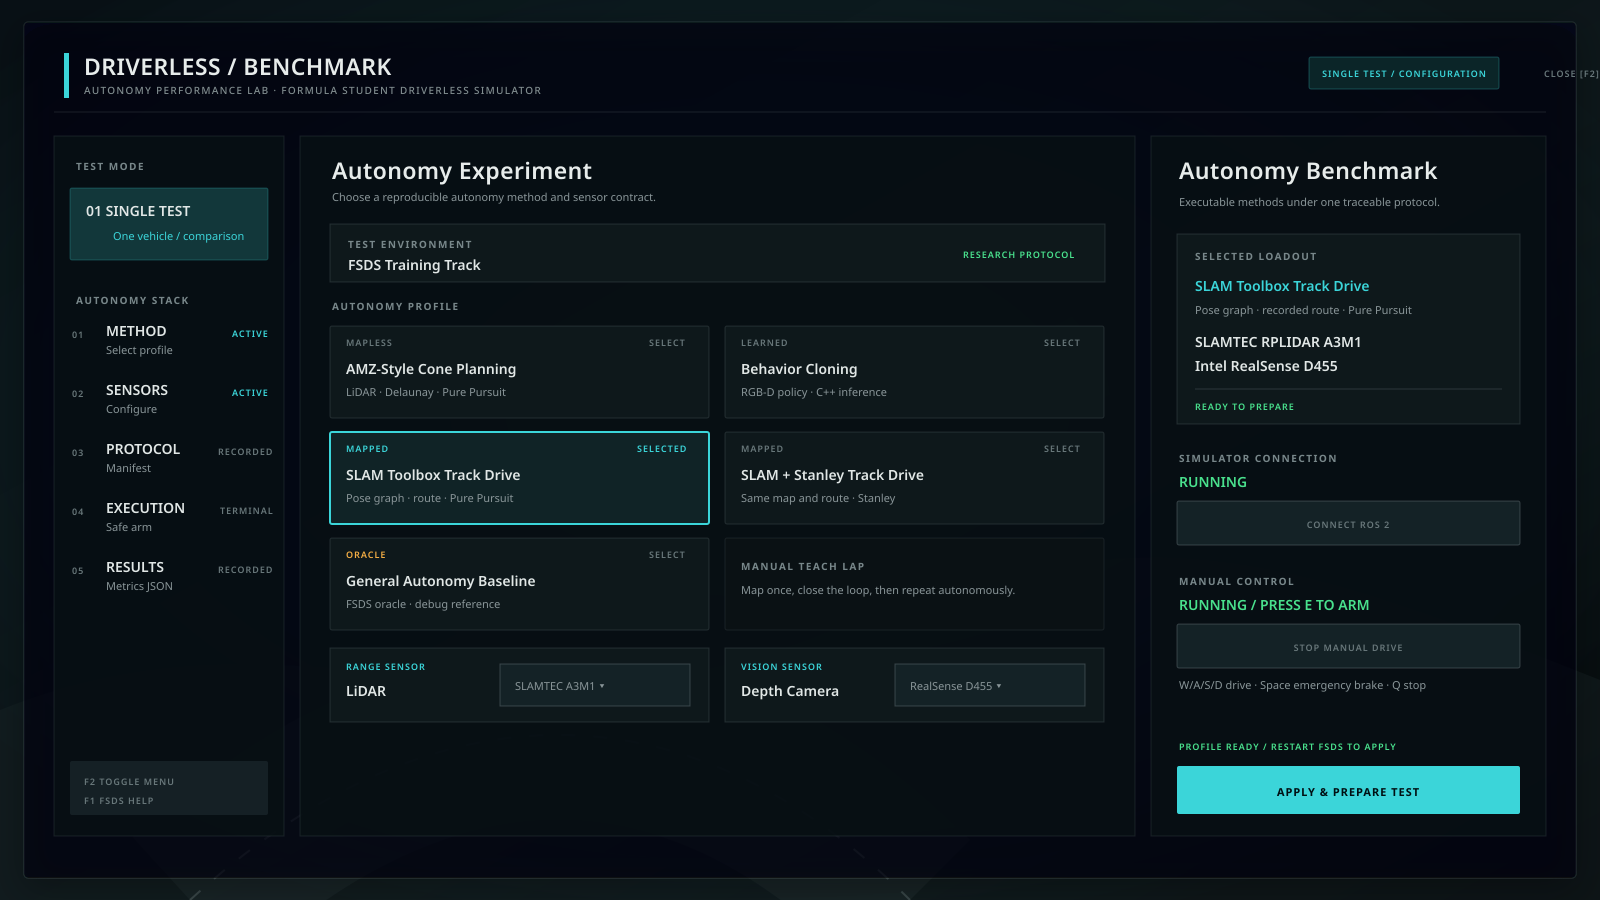
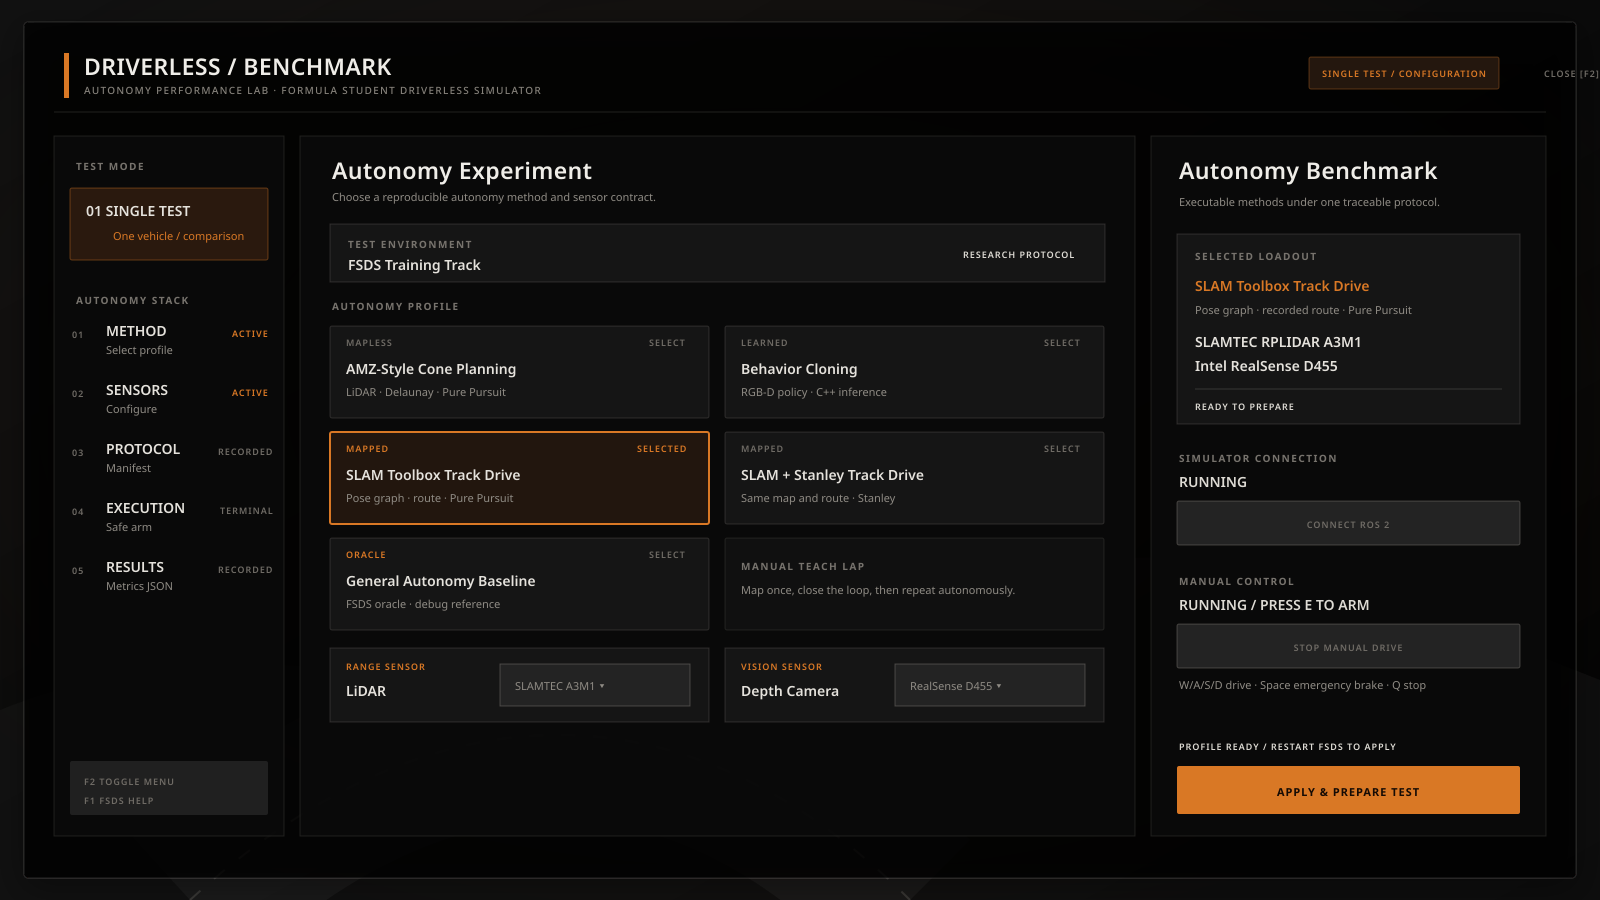
Color palette

diff --git a/FSDS/UE4Project/Plugins/AirSim/Source/SimHUD/BenchmarkMenuWidget.cpp b/FSDS/UE4Project/Plugins/AirSim/Source/SimHUD/BenchmarkMenuWidget.cpp
@@ -19,19 +19,19 @@ namespace BenchmarkTheme
 // The simulator remains visible beneath a restrained, cinematic veil. The
 // translucency is deliberate: this is a benchmark tool running over a live
 // test environment, not a detached desktop settings window.
-const FLinearColor Backdrop(0.002f, 0.004f, 0.006f, 0.76f);
-const FLinearColor Surface(0.008f, 0.012f, 0.016f, 0.62f);
-const FLinearColor SurfaceRaised(0.035f, 0.043f, 0.048f, 0.72f);
-const FLinearColor SurfaceSoft(0.075f, 0.085f, 0.09f, 0.52f);
-const FLinearColor Border(0.55f, 0.59f, 0.60f, 0.28f);
-const FLinearColor Text(0.90f, 0.91f, 0.89f, 1.0f);
-const FLinearColor TextMuted(0.52f, 0.55f, 0.55f, 1.0f);
-const FLinearColor Accent(0.22f, 0.82f, 0.86f, 1.0f);
-const FLinearColor AccentHover(0.37f, 0.93f, 0.95f, 1.0f);
-const FLinearColor AccentPressed(0.12f, 0.67f, 0.72f, 1.0f);
-const FLinearColor Success(0.22f, 0.91f, 0.55f, 1.0f);
-const FLinearColor Warning(1.0f, 0.68f, 0.18f, 1.0f);
-const FLinearColor Danger(1.0f, 0.28f, 0.28f, 1.0f);
+const FLinearColor Backdrop(0.004f, 0.004f, 0.005f, 0.84f);
+const FLinearColor Surface(0.016f, 0.016f, 0.018f, 0.78f);
+const FLinearColor SurfaceRaised(0.050f, 0.050f, 0.055f, 0.88f);
+const FLinearColor SurfaceSoft(0.095f, 0.095f, 0.100f, 0.76f);
+const FLinearColor Border(0.70f, 0.68f, 0.64f, 0.24f);
+const FLinearColor Text(0.93f, 0.92f, 0.89f, 1.0f);
+const FLinearColor TextMuted(0.55f, 0.54f, 0.51f, 1.0f);
+const FLinearColor Accent(0.76f, 0.31f, 0.075f, 1.0f);
+const FLinearColor AccentHover(0.92f, 0.43f, 0.12f, 1.0f);
+const FLinearColor AccentPressed(0.58f, 0.20f, 0.040f, 1.0f);
+const FLinearColor Success(0.84f, 0.83f, 0.79f, 1.0f);
+const FLinearColor Warning(0.82f, 0.35f, 0.080f, 1.0f);
+const FLinearColor Danger(0.96f, 0.45f, 0.14f, 1.0f);
 }
 
 void SBenchmarkMenu::Construct(const FArguments& InArgs)
@@ -111,7 +111,7 @@ void SBenchmarkMenu::Construct(const FArguments& InArgs)
 
     SecondaryButtonStyle = FCoreStyle::Get().GetWidgetStyle<FButtonStyle>("Button");
     SecondaryButtonStyle.SetNormal(FSlateColorBrush(BenchmarkTheme::SurfaceSoft));
-    SecondaryButtonStyle.SetHovered(FSlateColorBrush(FLinearColor(0.06f, 0.09f, 0.12f, 1.0f)));
+    SecondaryButtonStyle.SetHovered(FSlateColorBrush(FLinearColor(0.14f, 0.105f, 0.080f, 1.0f)));
     SecondaryButtonStyle.SetPressed(FSlateColorBrush(BenchmarkTheme::Border));
     SecondaryButtonStyle.SetNormalPadding(FMargin(16.0f, 10.0f));
     SecondaryButtonStyle.SetPressedPadding(FMargin(16.0f, 11.0f, 16.0f, 9.0f));
@@ -173,7 +173,7 @@ TSharedRef<SWidget> SBenchmarkMenu::BuildHeader()
 {
     return SNew(SBorder)
         .BorderImage(FCoreStyle::Get().GetBrush("WhiteBrush"))
-        .BorderBackgroundColor(FLinearColor(0.004f, 0.007f, 0.009f, 0.34f))
+        .BorderBackgroundColor(FLinearColor(0.012f, 0.012f, 0.014f, 0.56f))
         .Padding(FMargin(18.0f, 12.0f, 18.0f, 20.0f))
         [
             SNew(SHorizontalBox)
@@ -225,7 +225,7 @@ TSharedRef<SWidget> SBenchmarkMenu::BuildHeader()
             [
                 SNew(SBorder)
                 .BorderImage(FCoreStyle::Get().GetBrush("WhiteBrush"))
-                .BorderBackgroundColor(FLinearColor(0.04f, 0.12f, 0.13f, 0.68f))
+                .BorderBackgroundColor(FLinearColor(0.10f, 0.060f, 0.030f, 0.82f))
                 .Padding(FMargin(11.0f, 6.0f))
                 [
                     SNew(STextBlock)
@@ -260,7 +260,7 @@ TSharedRef<SWidget> SBenchmarkMenu::BuildSidebar()
         [
             SNew(SBorder)
             .BorderImage(FCoreStyle::Get().GetBrush("WhiteBrush"))
-            .BorderBackgroundColor(FLinearColor(0.004f, 0.008f, 0.010f, 0.48f))
+            .BorderBackgroundColor(FLinearColor(0.012f, 0.012f, 0.014f, 0.72f))
             .Padding(FMargin(18.0f, 24.0f, 24.0f, 18.0f))
             [
                 SNew(SVerticalBox)
@@ -278,7 +278,7 @@ TSharedRef<SWidget> SBenchmarkMenu::BuildSidebar()
                 [
                     SNew(SBorder)
                     .BorderImage(FCoreStyle::Get().GetBrush("WhiteBrush"))
-                    .BorderBackgroundColor(FLinearColor(0.08f, 0.23f, 0.24f, 0.72f))
+                    .BorderBackgroundColor(FLinearColor(0.12f, 0.070f, 0.032f, 0.86f))
                     .Padding(FMargin(13.0f, 13.0f))
                     [
                         SNew(SVerticalBox)
@@ -343,7 +343,7 @@ TSharedRef<SWidget> SBenchmarkMenu::BuildConfigurationPanel()
 {
     return SNew(SBorder)
         .BorderImage(FCoreStyle::Get().GetBrush("WhiteBrush"))
-        .BorderBackgroundColor(FLinearColor(0.006f, 0.009f, 0.012f, 0.42f))
+        .BorderBackgroundColor(FLinearColor(0.010f, 0.010f, 0.012f, 0.64f))
         .Padding(FMargin(38.0f, 26.0f, 34.0f, 24.0f))
         [
             SNew(SScrollBox)
@@ -402,7 +402,7 @@ TSharedRef<SWidget> SBenchmarkMenu::BuildConfigurationPanel()
                         [
                             SNew(SBorder)
                             .BorderImage(FCoreStyle::Get().GetBrush("WhiteBrush"))
-                            .BorderBackgroundColor(FLinearColor(0.04f, 0.12f, 0.13f, 0.58f))
+                            .BorderBackgroundColor(FLinearColor(0.095f, 0.060f, 0.034f, 0.72f))
                             .Padding(FMargin(10.0f, 6.0f))
                             [
                                 SNew(STextBlock)
@@ -449,7 +449,7 @@ TSharedRef<SWidget> SBenchmarkMenu::BuildConfigurationPanel()
                 [
                     SNew(SBorder)
                     .BorderImage(FCoreStyle::Get().GetBrush("WhiteBrush"))
-                    .BorderBackgroundColor(FLinearColor(0.12f, 0.075f, 0.018f, 0.46f))
+                    .BorderBackgroundColor(FLinearColor(0.10f, 0.060f, 0.025f, 0.58f))
                     .Padding(FMargin(15.0f, 12.0f))
                     [
                         SNew(STextBlock)
@@ -470,7 +470,7 @@ TSharedRef<SWidget> SBenchmarkMenu::BuildSummaryPanel()
         [
             SNew(SBorder)
             .BorderImage(FCoreStyle::Get().GetBrush("WhiteBrush"))
-            .BorderBackgroundColor(FLinearColor(0.003f, 0.006f, 0.008f, 0.60f))
+            .BorderBackgroundColor(FLinearColor(0.010f, 0.010f, 0.012f, 0.78f))
             .Padding(FMargin(34.0f, 26.0f, 26.0f, 20.0f))
             [
                 SNew(SVerticalBox)
@@ -494,7 +494,7 @@ TSharedRef<SWidget> SBenchmarkMenu::BuildSummaryPanel()
                 [
                     SNew(SBorder)
                     .BorderImage(FCoreStyle::Get().GetBrush("WhiteBrush"))
-                    .BorderBackgroundColor(FLinearColor(0.08f, 0.09f, 0.09f, 0.44f))
+                    .BorderBackgroundColor(FLinearColor(0.065f, 0.065f, 0.068f, 0.72f))
                     .Padding(FMargin(18.0f))
                     [
                         SNew(SVerticalBox)
@@ -629,7 +629,7 @@ TSharedRef<SWidget> SBenchmarkMenu::BuildSummaryPanel()
                         SNew(STextBlock)
                         .Text(FText::FromString(TEXT("APPLY & PREPARE TEST")))
                         .Font(FCoreStyle::GetDefaultFontStyle("Bold", 11))
-                        .ColorAndOpacity(FLinearColor(0.0f, 0.06f, 0.08f, 1.0f))
+                        .ColorAndOpacity(FLinearColor(0.035f, 0.020f, 0.010f, 1.0f))
                     ]
                 ]
                 + SVerticalBox::Slot().AutoHeight().Padding(0.0f, 10.0f, 0.0f, 0.0f)
@@ -799,7 +799,7 @@ TSharedRef<SWidget> SBenchmarkMenu::BuildSensorSelector(
 
     return SNew(SBorder)
         .BorderImage(FCoreStyle::Get().GetBrush("WhiteBrush"))
-        .BorderBackgroundColor(FLinearColor(0.02f, 0.025f, 0.027f, 0.28f))
+        .BorderBackgroundColor(FLinearColor(0.035f, 0.035f, 0.038f, 0.52f))
         .Padding(FMargin(18.0f, 16.0f))
         [
             SNew(SHorizontalBox)

diff --git a/FSDS/UE4Project/Plugins/AirSim/Source/SimHUD/SimHUD.cpp b/FSDS/UE4Project/Plugins/AirSim/Source/SimHUD/SimHUD.cpp
@@ -201,7 +201,7 @@ FReply ASimHUD::connectRosBridge()
     {
         setBridgeStatus(
             FText::FromString(TEXT("RUNNING")),
-            FLinearColor(0.2f, 0.9f, 0.35f));
+            FLinearColor(0.84f, 0.83f, 0.79f));
         return FReply::Handled();
     }
 
@@ -210,7 +210,7 @@ FReply ASimHUD::connectRosBridge()
     {
         setBridgeStatus(
             FText::FromString(TEXT("START SCRIPT NOT FOUND")),
-            FLinearColor(1.0f, 0.2f, 0.15f));
+            FLinearColor(0.96f, 0.45f, 0.14f));
         UAirBlueprintLib::LogMessage(
             TEXT("Set FSDS_BRIDGE_START_SCRIPT to the absolute bridge-start path"),
             TEXT(""),
@@ -220,7 +220,7 @@ FReply ASimHUD::connectRosBridge()
 
     setBridgeStatus(
         FText::FromString(TEXT("STARTING...")),
-        FLinearColor(0.95f, 0.65f, 0.1f));
+        FLinearColor(0.82f, 0.35f, 0.08f));
 
     uint32 process_id = 0;
     bridge_process_ = FPlatformProcess::CreateProc(
@@ -238,7 +238,7 @@ FReply ASimHUD::connectRosBridge()
     {
         setBridgeStatus(
             FText::FromString(TEXT("FAILED TO START")),
-            FLinearColor(1.0f, 0.2f, 0.15f));
+            FLinearColor(0.96f, 0.45f, 0.14f));
         return FReply::Handled();
     }
 
@@ -291,7 +291,7 @@ void ASimHUD::updateBridgeProcessState()
         bridge_process_was_running_ = true;
         setBridgeStatus(
             FText::FromString(TEXT("RUNNING")),
-            FLinearColor(0.2f, 0.9f, 0.35f));
+            FLinearColor(0.84f, 0.83f, 0.79f));
         return;
     }
 
@@ -305,7 +305,7 @@ void ASimHUD::updateBridgeProcessState()
             : FString(TEXT("STOPPED"));
         setBridgeStatus(
             FText::FromString(status),
-            FLinearColor(1.0f, 0.2f, 0.15f));
+            FLinearColor(0.96f, 0.45f, 0.14f));
         bridge_process_was_running_ = false;
     }
 
@@ -327,7 +327,7 @@ void ASimHUD::toggleManualDrive()
     {
         setManualDriveStatus(
             FText::FromString(TEXT("STOPPING / BRAKE COMMAND SENT")),
-            FLinearColor(1.0f, 0.68f, 0.18f),
+            FLinearColor(0.82f, 0.35f, 0.08f),
             true);
         manual_drive_stop_requested_ = true;
         FPlatformProcess::TerminateProc(manual_drive_process_, true);
@@ -345,14 +345,14 @@ void ASimHUD::toggleManualDrive()
     {
         setManualDriveStatus(
             FText::FromString(TEXT("TELEOP SCRIPT NOT FOUND")),
-            FLinearColor(1.0f, 0.28f, 0.28f),
+            FLinearColor(0.96f, 0.45f, 0.14f),
             false);
         return;
     }
 
     setManualDriveStatus(
         FText::FromString(TEXT("STARTING...")),
-        FLinearColor(1.0f, 0.68f, 0.18f),
+        FLinearColor(0.82f, 0.35f, 0.08f),
         false);
     manual_drive_stop_requested_ = false;
 
@@ -372,7 +372,7 @@ void ASimHUD::toggleManualDrive()
     {
         setManualDriveStatus(
             FText::FromString(TEXT("FAILED TO START")),
-            FLinearColor(1.0f, 0.28f, 0.28f),
+            FLinearColor(0.96f, 0.45f, 0.14f),
             false);
         return;
     }
@@ -421,7 +421,7 @@ void ASimHUD::updateManualDriveProcessState()
         manual_drive_process_was_running_ = true;
         setManualDriveStatus(
             FText::FromString(TEXT("RUNNING / PRESS E TO ARM")),
-            FLinearColor(0.22f, 0.91f, 0.55f),
+            FLinearColor(0.84f, 0.83f, 0.79f),
             true);
         return;
     }
@@ -438,8 +438,8 @@ void ASimHUD::updateManualDriveProcessState()
                 ? FText::FromString(TEXT("STOPPED / VEHICLE BRAKED"))
                 : FText::FromString(TEXT("STOPPED / CHECK ROS LOG")),
             clean_exit
-                ? FLinearColor(0.52f, 0.55f, 0.55f)
-                : FLinearColor(1.0f, 0.28f, 0.28f),
+                ? FLinearColor(0.55f, 0.54f, 0.51f)
+                : FLinearColor(0.96f, 0.45f, 0.14f),
             false);
         manual_drive_process_was_running_ = false;
         manual_drive_stop_requested_ = false;
@@ -476,7 +476,7 @@ void ASimHUD::prepareSingleTest(
         {
             benchmark_menu_->SetPreparationStatus(
                 FText::FromString(TEXT("PROFILE GENERATION ALREADY RUNNING")),
-                FLinearColor(1.0f, 0.68f, 0.18f));
+                FLinearColor(0.82f, 0.35f, 0.08f));
         }
         return;
     }
@@ -488,7 +488,7 @@ void ASimHUD::prepareSingleTest(
         {
             benchmark_menu_->SetPreparationStatus(
                 FText::FromString(TEXT("SINGLE TEST PREPARE SCRIPT NOT FOUND")),
-                FLinearColor(1.0f, 0.28f, 0.28f));
+                FLinearColor(0.96f, 0.45f, 0.14f));
         }
         return;
     }
@@ -517,7 +517,7 @@ void ASimHUD::prepareSingleTest(
         {
             benchmark_menu_->SetPreparationStatus(
                 FText::FromString(TEXT("FAILED TO START PROFILE GENERATOR")),
-                FLinearColor(1.0f, 0.28f, 0.28f));
+                FLinearColor(0.96f, 0.45f, 0.14f));
         }
         return;
     }
@@ -585,7 +585,7 @@ void ASimHUD::updatePreparationProcessState()
             {
                 benchmark_menu_->SetPreparationStatus(
                     FText::FromString(TEXT("PREPARATION TIMED OUT / CHECK DISTROBOX")),
-                    FLinearColor(1.0f, 0.28f, 0.28f));
+                    FLinearColor(0.96f, 0.45f, 0.14f));
             }
             return;
         }
@@ -595,7 +595,7 @@ void ASimHUD::updatePreparationProcessState()
         {
             benchmark_menu_->SetPreparationStatus(
                 FText::FromString(TEXT("GENERATING SETTINGS AND MANIFEST...")),
-                FLinearColor(1.0f, 0.68f, 0.18f));
+                FLinearColor(0.82f, 0.35f, 0.08f));
         }
         return;
     }
@@ -631,8 +631,8 @@ void ASimHUD::updatePreparationProcessState()
                     ? FText::FromString(TEXT("PROFILE READY / RESTART FSDS TO APPLY"))
                     : FText::FromString(TEXT("PROFILE GENERATION FAILED / CHECK LOG")),
                 succeeded
-                    ? FLinearColor(0.22f, 0.91f, 0.55f)
-                    : FLinearColor(1.0f, 0.28f, 0.28f));
+                    ? FLinearColor(0.84f, 0.83f, 0.79f)
+                    : FLinearColor(0.96f, 0.45f, 0.14f));
         }
         preparation_process_was_running_ = false;
     }
